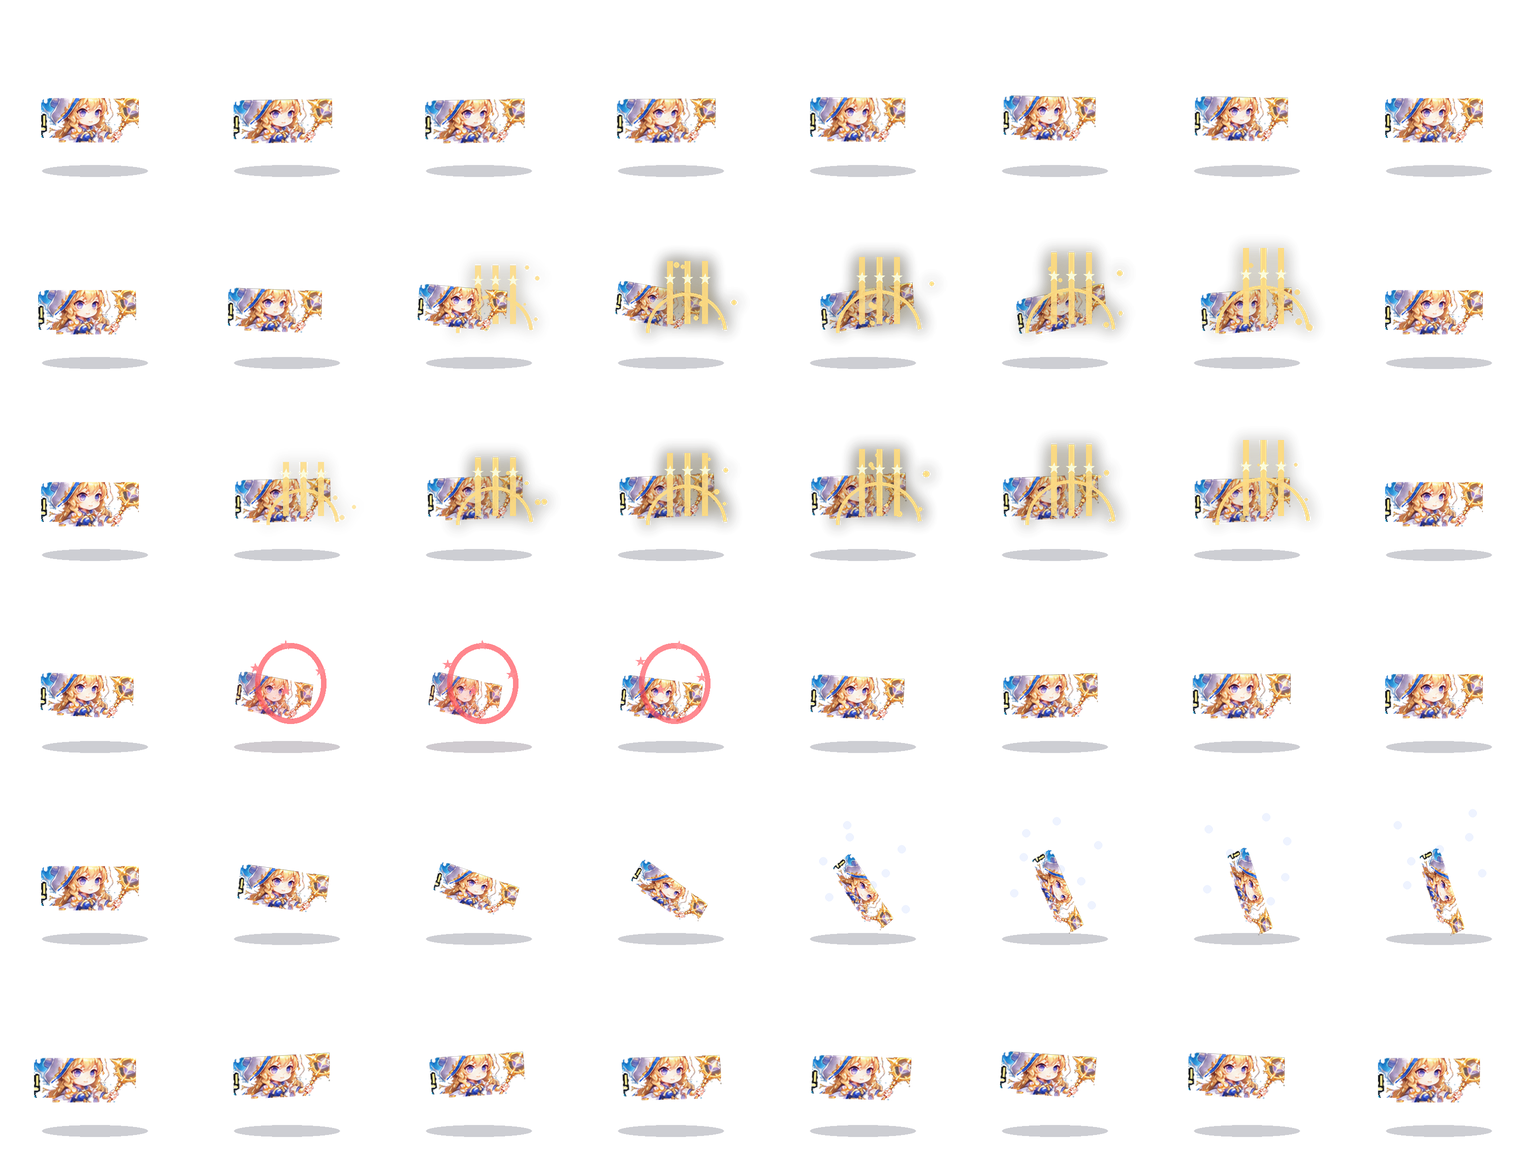
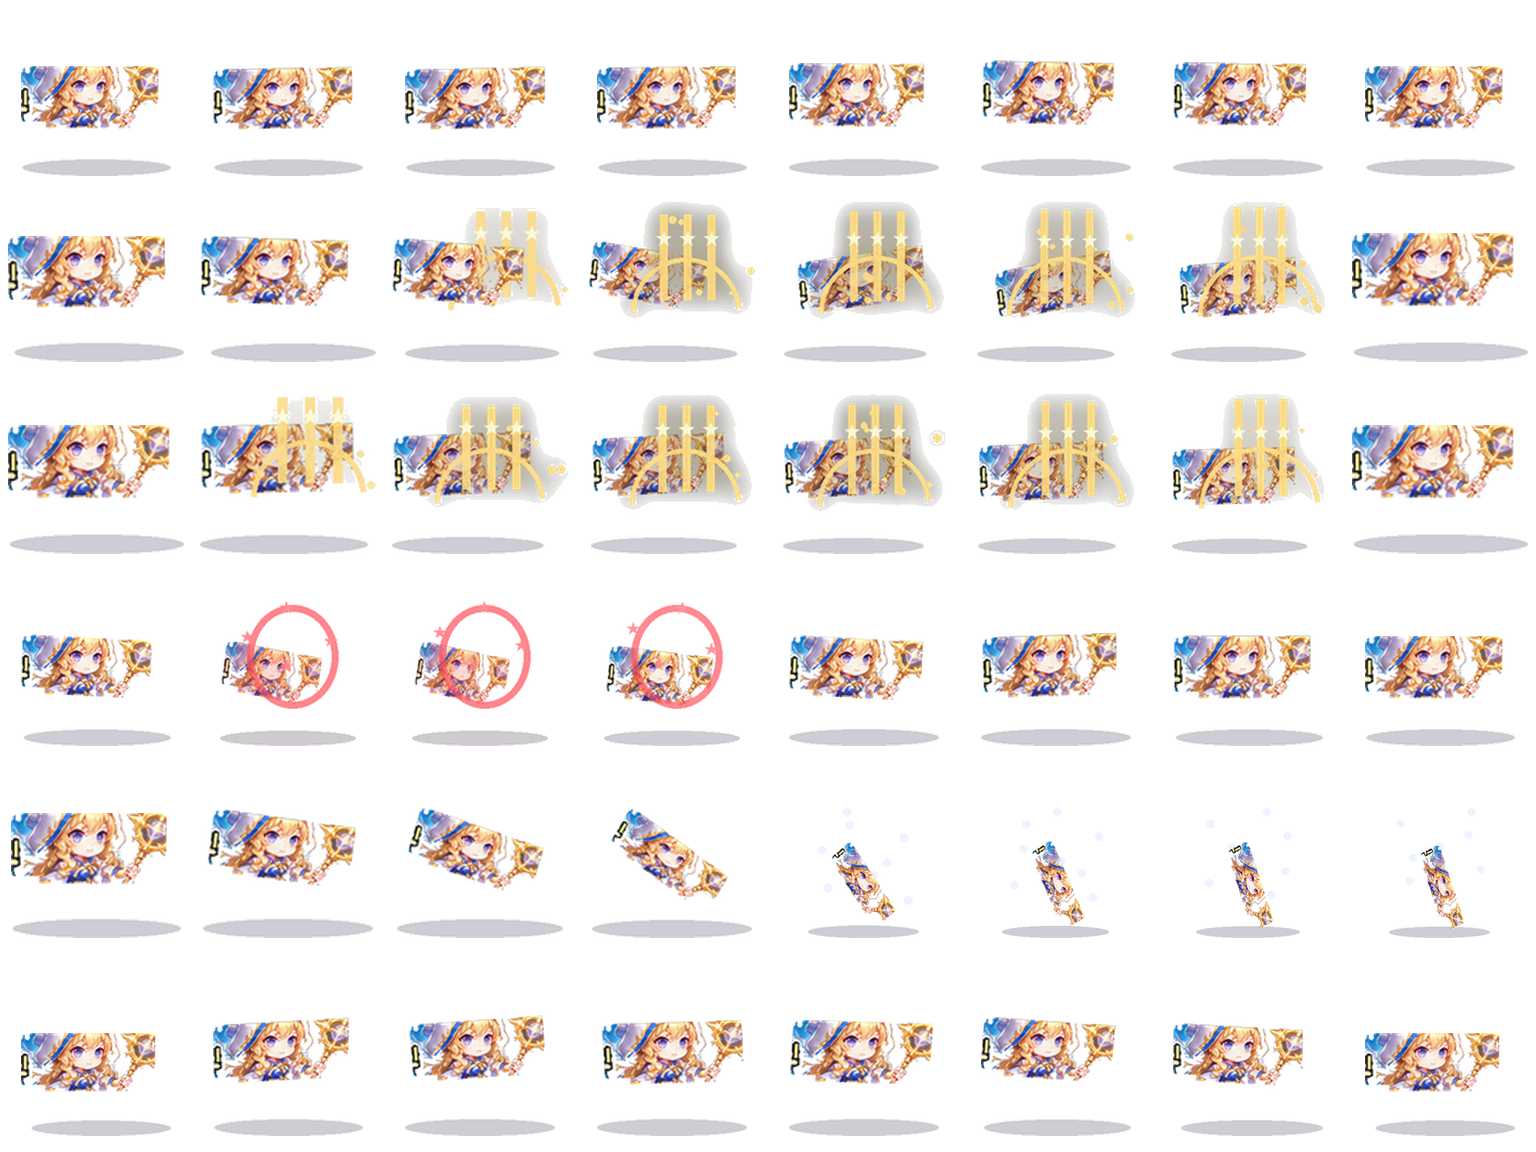
Add files via upload

diff --git a/public/animation-preview.html b/public/animation-preview.html
@@ -12,7 +12,7 @@ select{background:#263e54;color:#fff;border:1px solid #b9a16a;border-radius:10px
 .grid{display:grid;grid-template-columns:repeat(auto-fit,minmax(170px,1fr));gap:12px;margin-top:16px}
 .card{border:1px solid #a18b55;border-radius:14px;background:linear-gradient(#1d354c,#0d2033);padding:9px;text-align:center}
 .card b{font-size:16px;display:block;margin-top:4px}.card small{color:#9bbcd0}
-canvas{width:100%;max-width:180px;aspect-ratio:1;display:block;margin:auto;image-rendering:auto}
+canvas{width:100%;max-width:220px;aspect-ratio:1;display:block;margin:auto;image-rendering:auto}
 .foot{margin-top:25px;font-size:13px;opacity:.75}
 </style>
 </head><body>
@@ -35,7 +35,7 @@ const cards=units.map(([key,name,role])=>{
  const label=document.createElement('b');label.textContent=name;
  const small=document.createElement('small');small.textContent=role;
  card.append(canvas,label,small);grid.append(card);
- const img=new Image();img.src='/unit_anim/'+key+'.png?v=14';img.onload=()=>{loaded++;status.textContent=loaded+'/12개 로딩 완료';};img.onerror=()=>{small.textContent='이미지 로드 실패';};
+ const img=new Image();img.src='/unit_anim/'+key+'.png?v=15';img.onload=()=>{loaded++;status.textContent=loaded+'/12개 로딩 완료';};img.onerror=()=>{small.textContent='이미지 로드 실패';};
  return {img,ctx:canvas.getContext('2d')};
 });
 function loop(now){
@@ -44,7 +44,7 @@ function loop(now){
   ctx.clearRect(0,0,192,192);
   if(!img.complete||!img.naturalWidth)return;
   const frame=Math.floor((now-start+idx*45)/(1000/fps))%8;
-  ctx.drawImage(img,frame*192,row*192,192,192,0,0,192,192);
+  ctx.clearRect(0,0,192,192);ctx.drawImage(img,frame*192,row*192,192,192,0,0,192,192);
  });
  requestAnimationFrame(loop);
 }

diff --git a/public/game.js b/public/game.js
@@ -128,7 +128,7 @@ const unitSpriteSheets=Object.create(null);
 function getUnitSpriteSheet(name){
  if(!unitSpriteKeys[name])return null;
  if(!unitSpriteSheets[name]){
-   const img=new Image();img.src='/unit_anim/'+unitSpriteKeys[name]+'.png?v=14';
+   const img=new Image();img.src='/unit_anim/'+unitSpriteKeys[name]+'.png?v=15';
    unitSpriteSheets[name]=img;
  }
  return unitSpriteSheets[name];
@@ -184,7 +184,7 @@ function drawUnitIllustration(name,x,y,t,scale=1){
  if(sheet?.complete&&sheet.naturalWidth>=1536&&sheet.naturalHeight>=1152){
    ctx.imageSmoothingEnabled=true;
    ctx.imageSmoothingQuality='high';
-   ctx.drawImage(sheet,action.frame*192,action.row*192,192,192,-size/2,-size*169/192,size,size);
+   ctx.drawImage(sheet,action.frame*192,action.row*192,192,192,-size*0.48,-size*0.84,size*0.96,size*0.96);
  }else{
    // Safe fallback when a sprite sheet has not finished loading.
    const portrait=unitPortraits[name];
